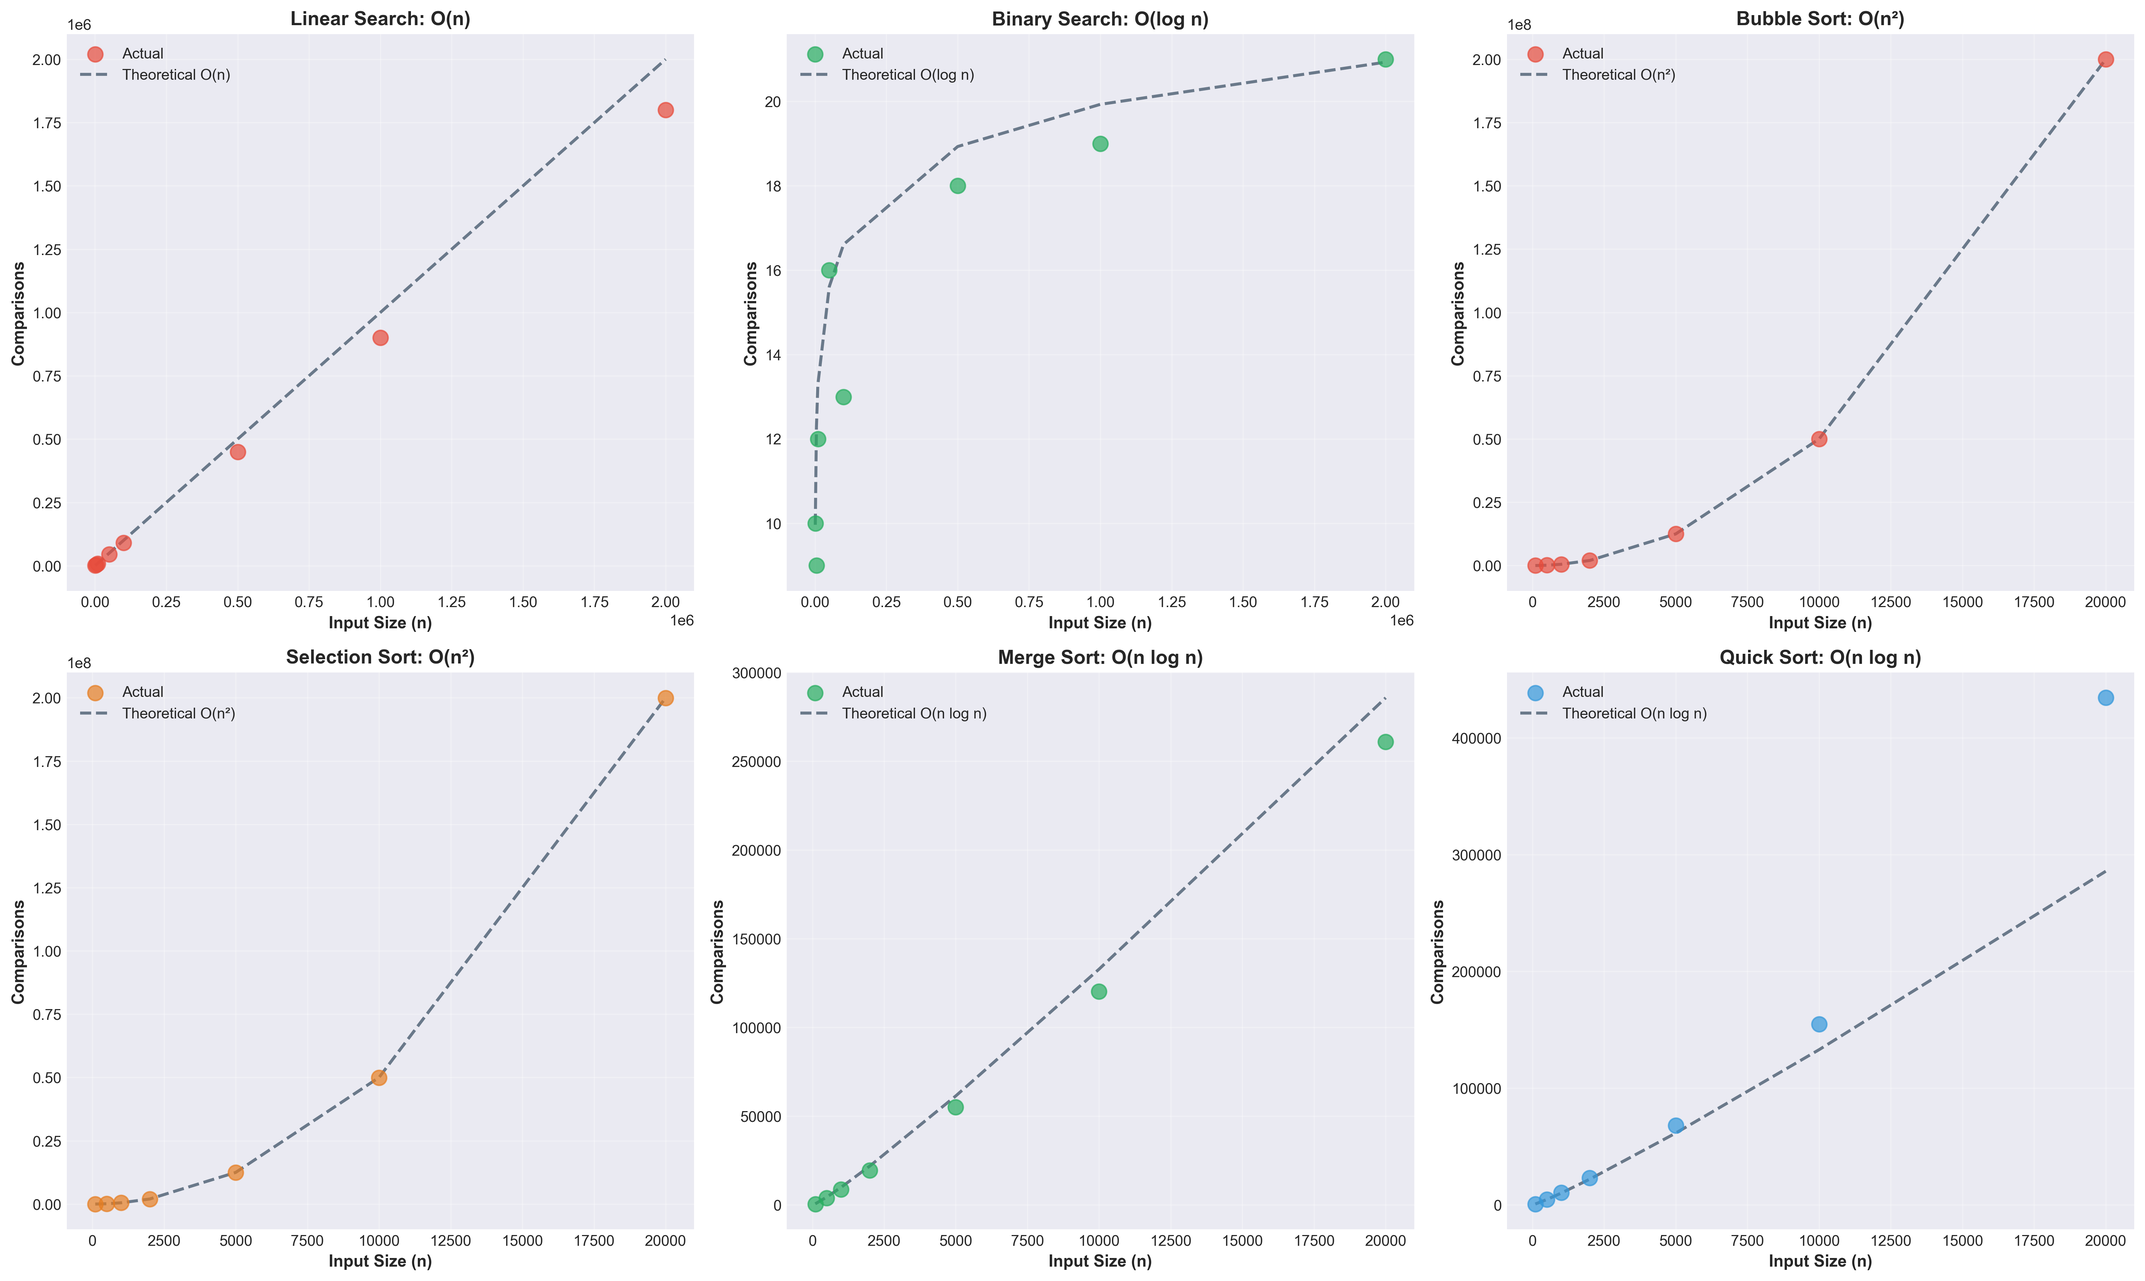
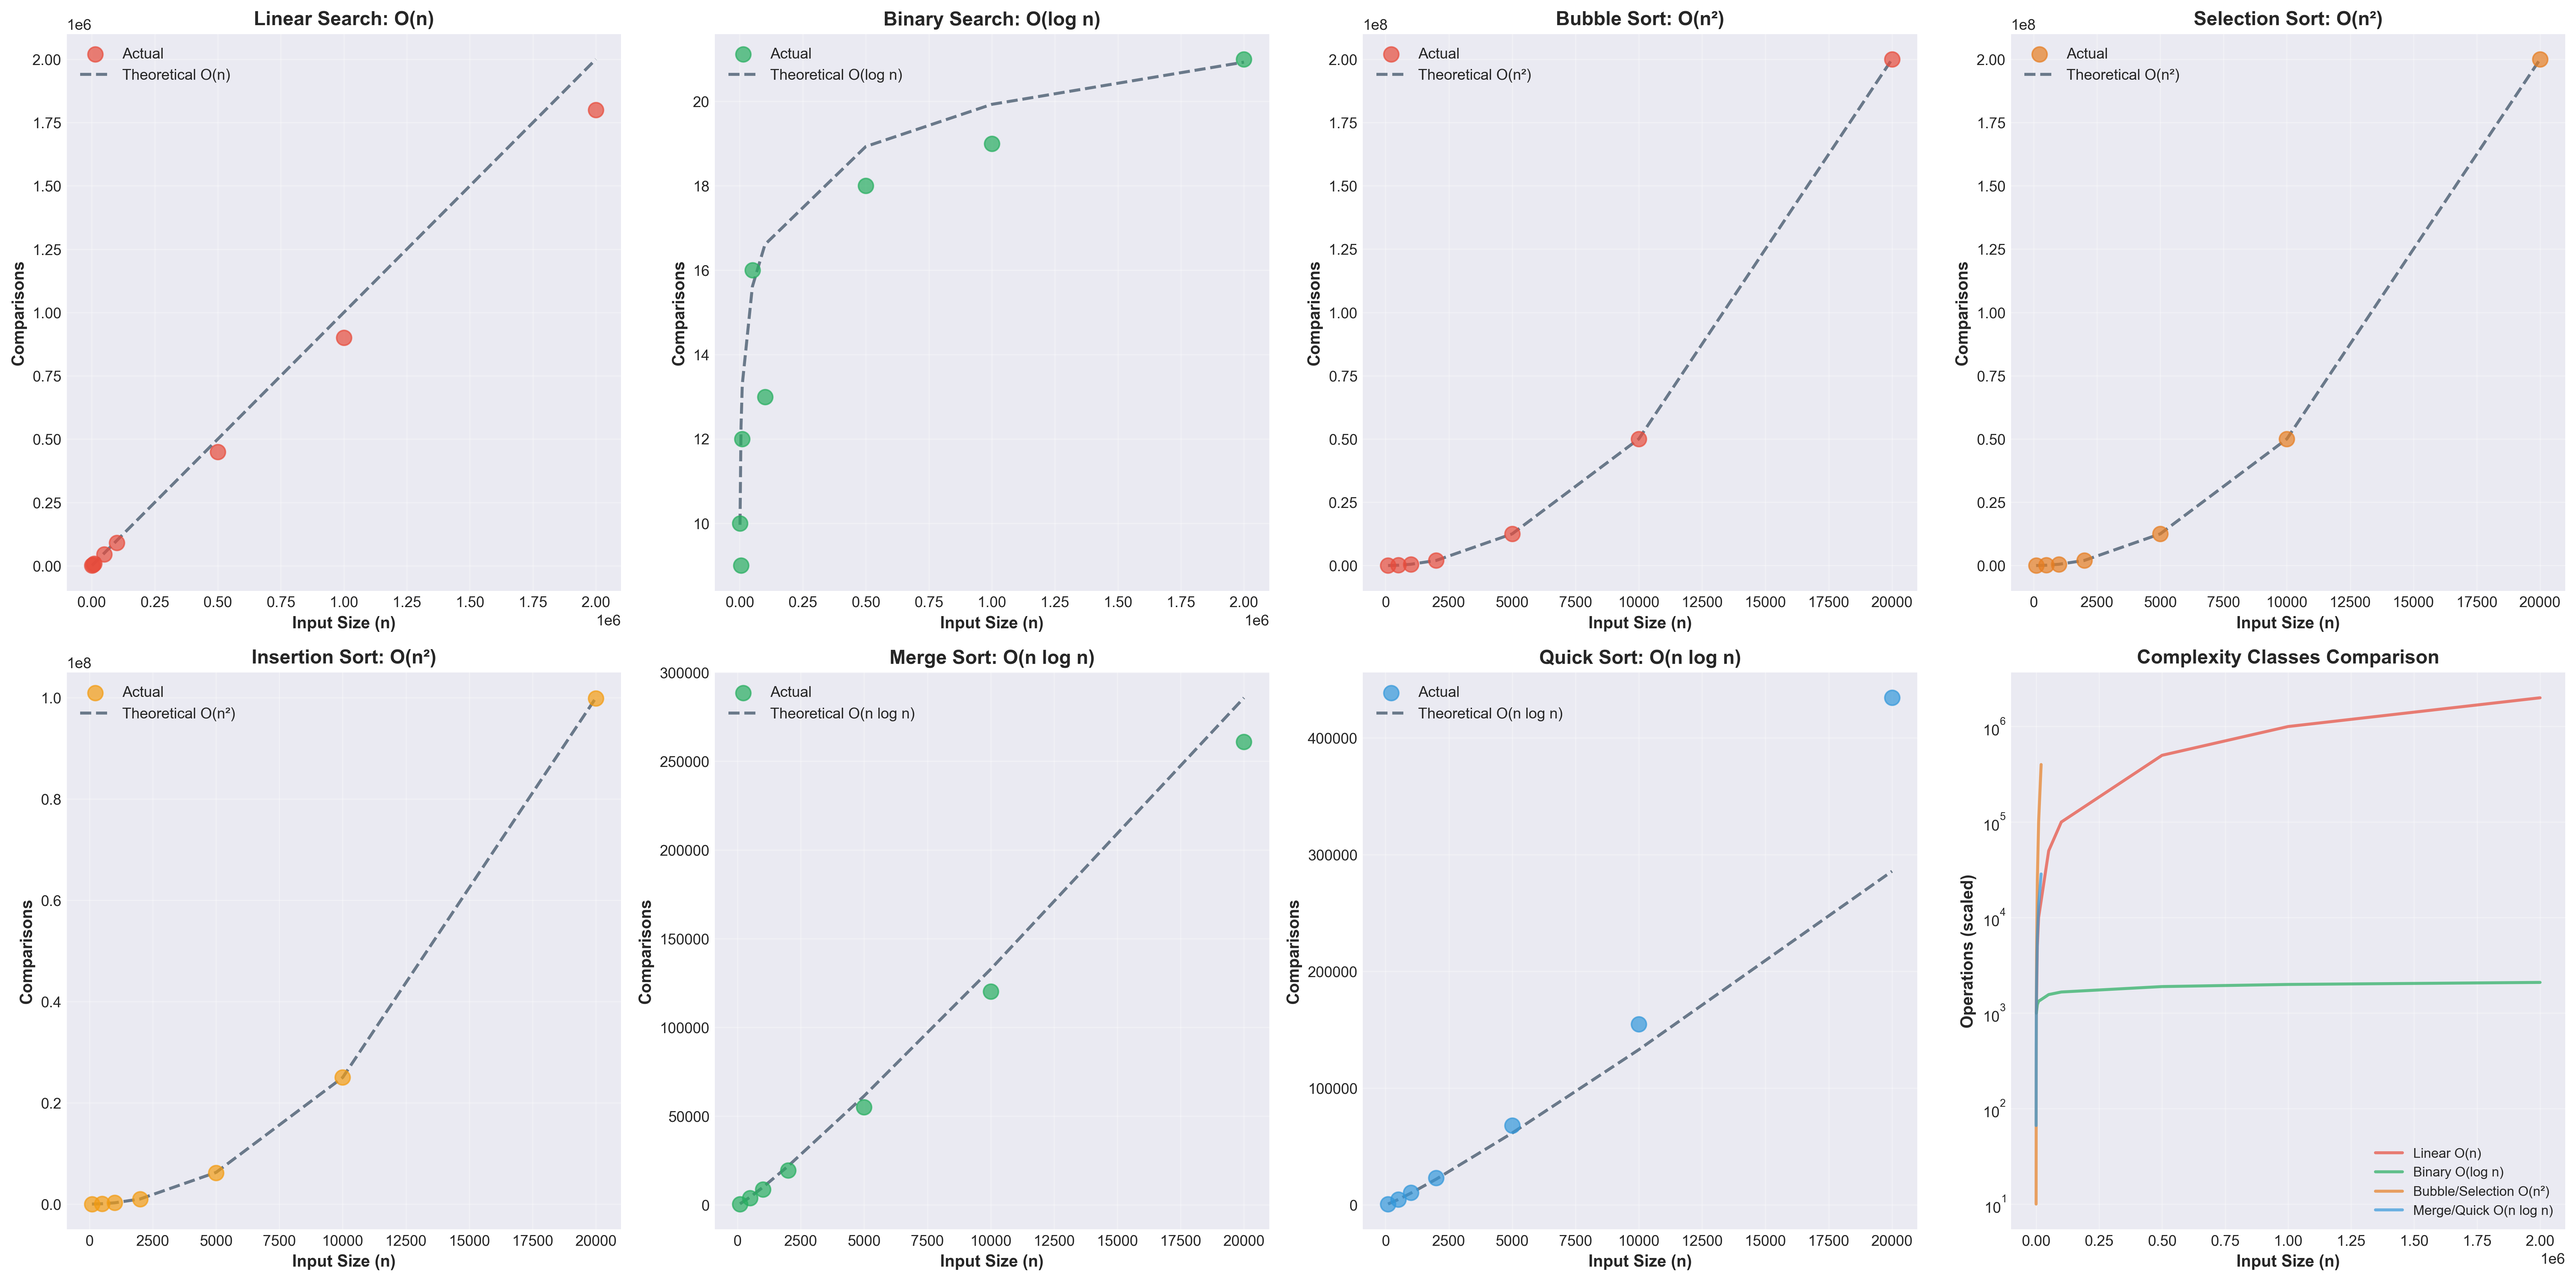
=

diff --git a/src/algoritma.py b/src/algoritma.py
@@ -81,36 +81,29 @@ def insertion_sort(arr: List[int]) -> Tuple[List[int], int, int]:
     """Insertion Sort - O(n²)"""
     n = len(arr)
     comparisons, shifts = 0, 0
-    
     for i in range(1, n):
         key = arr[i]
         j = i - 1
-        
         while j >= 0 and arr[j] > key:
             comparisons += 1
             arr[j + 1] = arr[j]
             shifts += 1
             j -= 1
-        
         if j >= 0:
             comparisons += 1
-        
         arr[j + 1] = key
     
     return arr, comparisons, shifts
+    """Merge Sort - O(n log n)"""
 
 
 def merge_sort(arr: List[int]) -> Tuple[List[int], int]:
-    """Merge Sort - O(n log n)"""
     if len(arr) <= 1:
         return arr, 0
-    
     mid = len(arr) // 2
     left, left_comps = merge_sort(arr[:mid])
     right, right_comps = merge_sort(arr[mid:])
-    
     merged, merge_comps = merge(left, right)
-    
     return merged, left_comps + right_comps + merge_comps
 
 
@@ -119,7 +112,6 @@ def merge(left: List[int], right: List[int]) -> Tuple[List[int], int]:
     result = []
     comparisons = 0
     i = j = 0
-    
     while i < len(left) and j < len(right):
         comparisons += 1
         if left[i] <= right[j]:
@@ -128,40 +120,26 @@ def merge(left: List[int], right: List[int]) -> Tuple[List[int], int]:
         else:
             result.append(right[j])
             j += 1
-    
     result.extend(left[i:])
     result.extend(right[j:])
-    
     return result, comparisons
 
 
 def quick_sort(arr: List[int]) -> Tuple[List[int], int, int]:
-    """Quick Sort - O(n log n) average, O(n²) worst case
-    
-    Menggunakan median-of-three pivot selection untuk menghindari
-    worst case pada data yang sudah terurut.
-    """
     if len(arr) <= 1:
         return arr, 0, 0
-    
     comparisons, swaps = [0], [0]  # Use list untuk pass by reference
     _quick_sort_helper(arr, 0, len(arr) - 1, comparisons, swaps)
-    
     return arr, comparisons[0], swaps[0]
 
 
 def _quick_sort_helper(arr: List[int], low: int, high: int, 
                        comparisons: List[int], swaps: List[int]) -> None:
-    """Helper function untuk quick sort dengan tail recursion optimization"""
     while low < high:
-        # Switch to insertion sort for small subarrays (optimization)
         if high - low < 10:
             _insertion_sort_range(arr, low, high, comparisons, swaps)
             break
-            
         pivot_idx = _partition(arr, low, high, comparisons, swaps)
-        
-        # Tail recursion optimization: recurse on smaller partition
         if pivot_idx - low < high - pivot_idx:
             _quick_sort_helper(arr, low, pivot_idx - 1, comparisons, swaps)
             low = pivot_idx + 1

diff --git a/graphs/visualisasi-grafik.py b/graphs/visualisasi-grafik.py
@@ -32,7 +32,7 @@ def plot_search_comparison():
     
     plt.tight_layout()
     plt.savefig('grafik_search_algorithms.png', dpi=300, bbox_inches='tight')
-    print("✓ Saved: grafik_search_algorithms.png")
+    print("Saved: grafik_search_algorithms.png")
     plt.close()
 
 
@@ -67,7 +67,7 @@ def plot_sorting_random():
     
     plt.tight_layout()
     plt.savefig('grafik_sorting_random.png', dpi=300, bbox_inches='tight')
-    print("✓ Saved: grafik_sorting_random.png")
+    print("Saved: grafik_sorting_random.png")
     plt.close()
 
 
@@ -140,7 +140,7 @@ def plot_best_vs_worst_case():
     
     plt.tight_layout()
     plt.savefig('grafik_best_vs_worst.png', dpi=300, bbox_inches='tight')
-    print("✓ Saved: grafik_best_vs_worst.png")
+    print("Saved: grafik_best_vs_worst.png")
     plt.close()
 
 
@@ -230,7 +230,7 @@ def plot_growth_rate_analysis():
     
     plt.tight_layout()
     plt.savefig('grafik_growth_rate.png', dpi=300, bbox_inches='tight')
-    print("✓ Saved: grafik_growth_rate.png")
+    print("Saved: grafik_growth_rate.png")
     plt.close()
 
 
@@ -264,7 +264,7 @@ def plot_speedup_comparison():
     
     plt.tight_layout()
     plt.savefig('grafik_speedup.png', dpi=300, bbox_inches='tight')
-    print("✓ Saved: grafik_speedup.png")
+    print("Saved: grafik_speedup.png")
     plt.close()
 
 
@@ -293,7 +293,7 @@ if __name__ == "__main__":
         plot_speedup_comparison()
         
         print("\n" + "="*80)
-        print("✓ ALL VISUALIZATIONS COMPLETED!")
+        print("ALL VISUALIZATIONS COMPLETED!")
         print("="*80)
         print("\nGenerated graphs:")
         print("  1. grafik_search_algorithms.png       - Linear & Binary Search")
@@ -301,8 +301,8 @@ if __name__ == "__main__":
         print("  3. grafik_best_vs_worst.png           - Best vs Worst Case Analysis")
         print("  4. grafik_growth_rate.png             - Big-O Growth Rate Proof")
         print("  5. grafik_speedup.png                 - Performance Speedup")
-        print("\n✓ All graphs saved in high resolution (300 DPI)")
-        print("✓ Ready for presentation!")
+        print("\nAll graphs saved in high resolution (300 DPI)")
+        print("Ready for presentation!")
         print("="*80)
         
     except FileNotFoundError as e:
